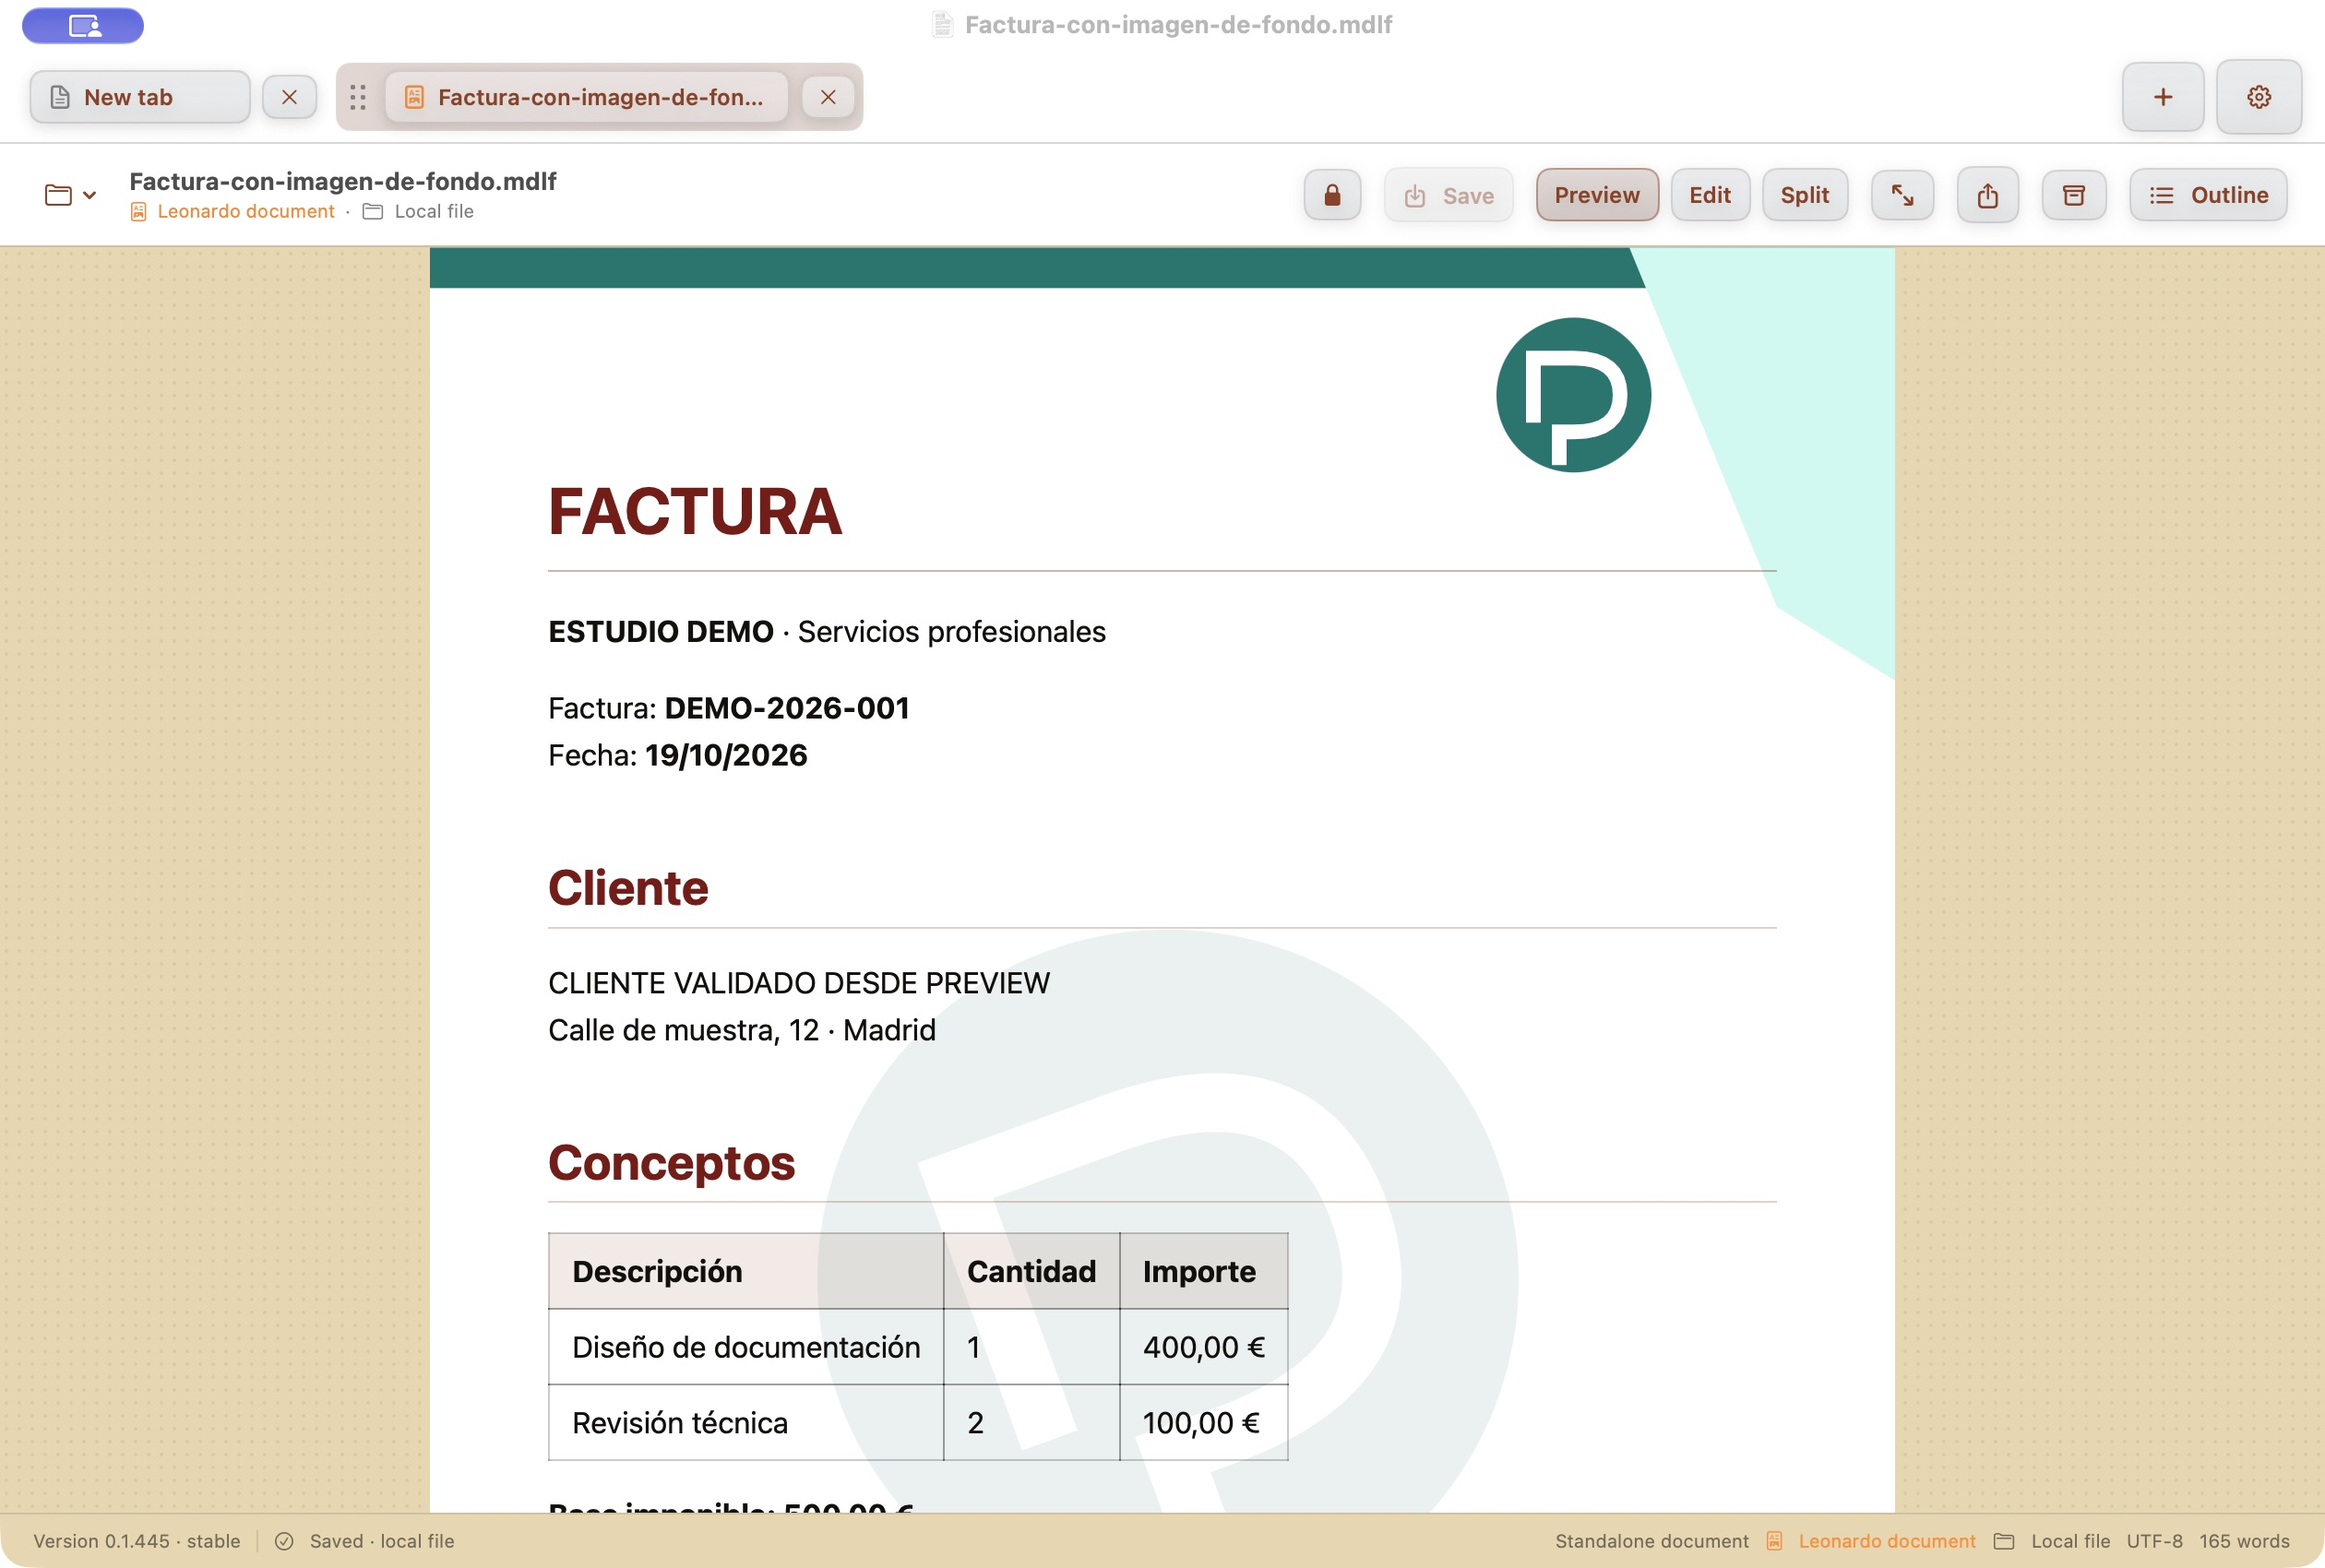
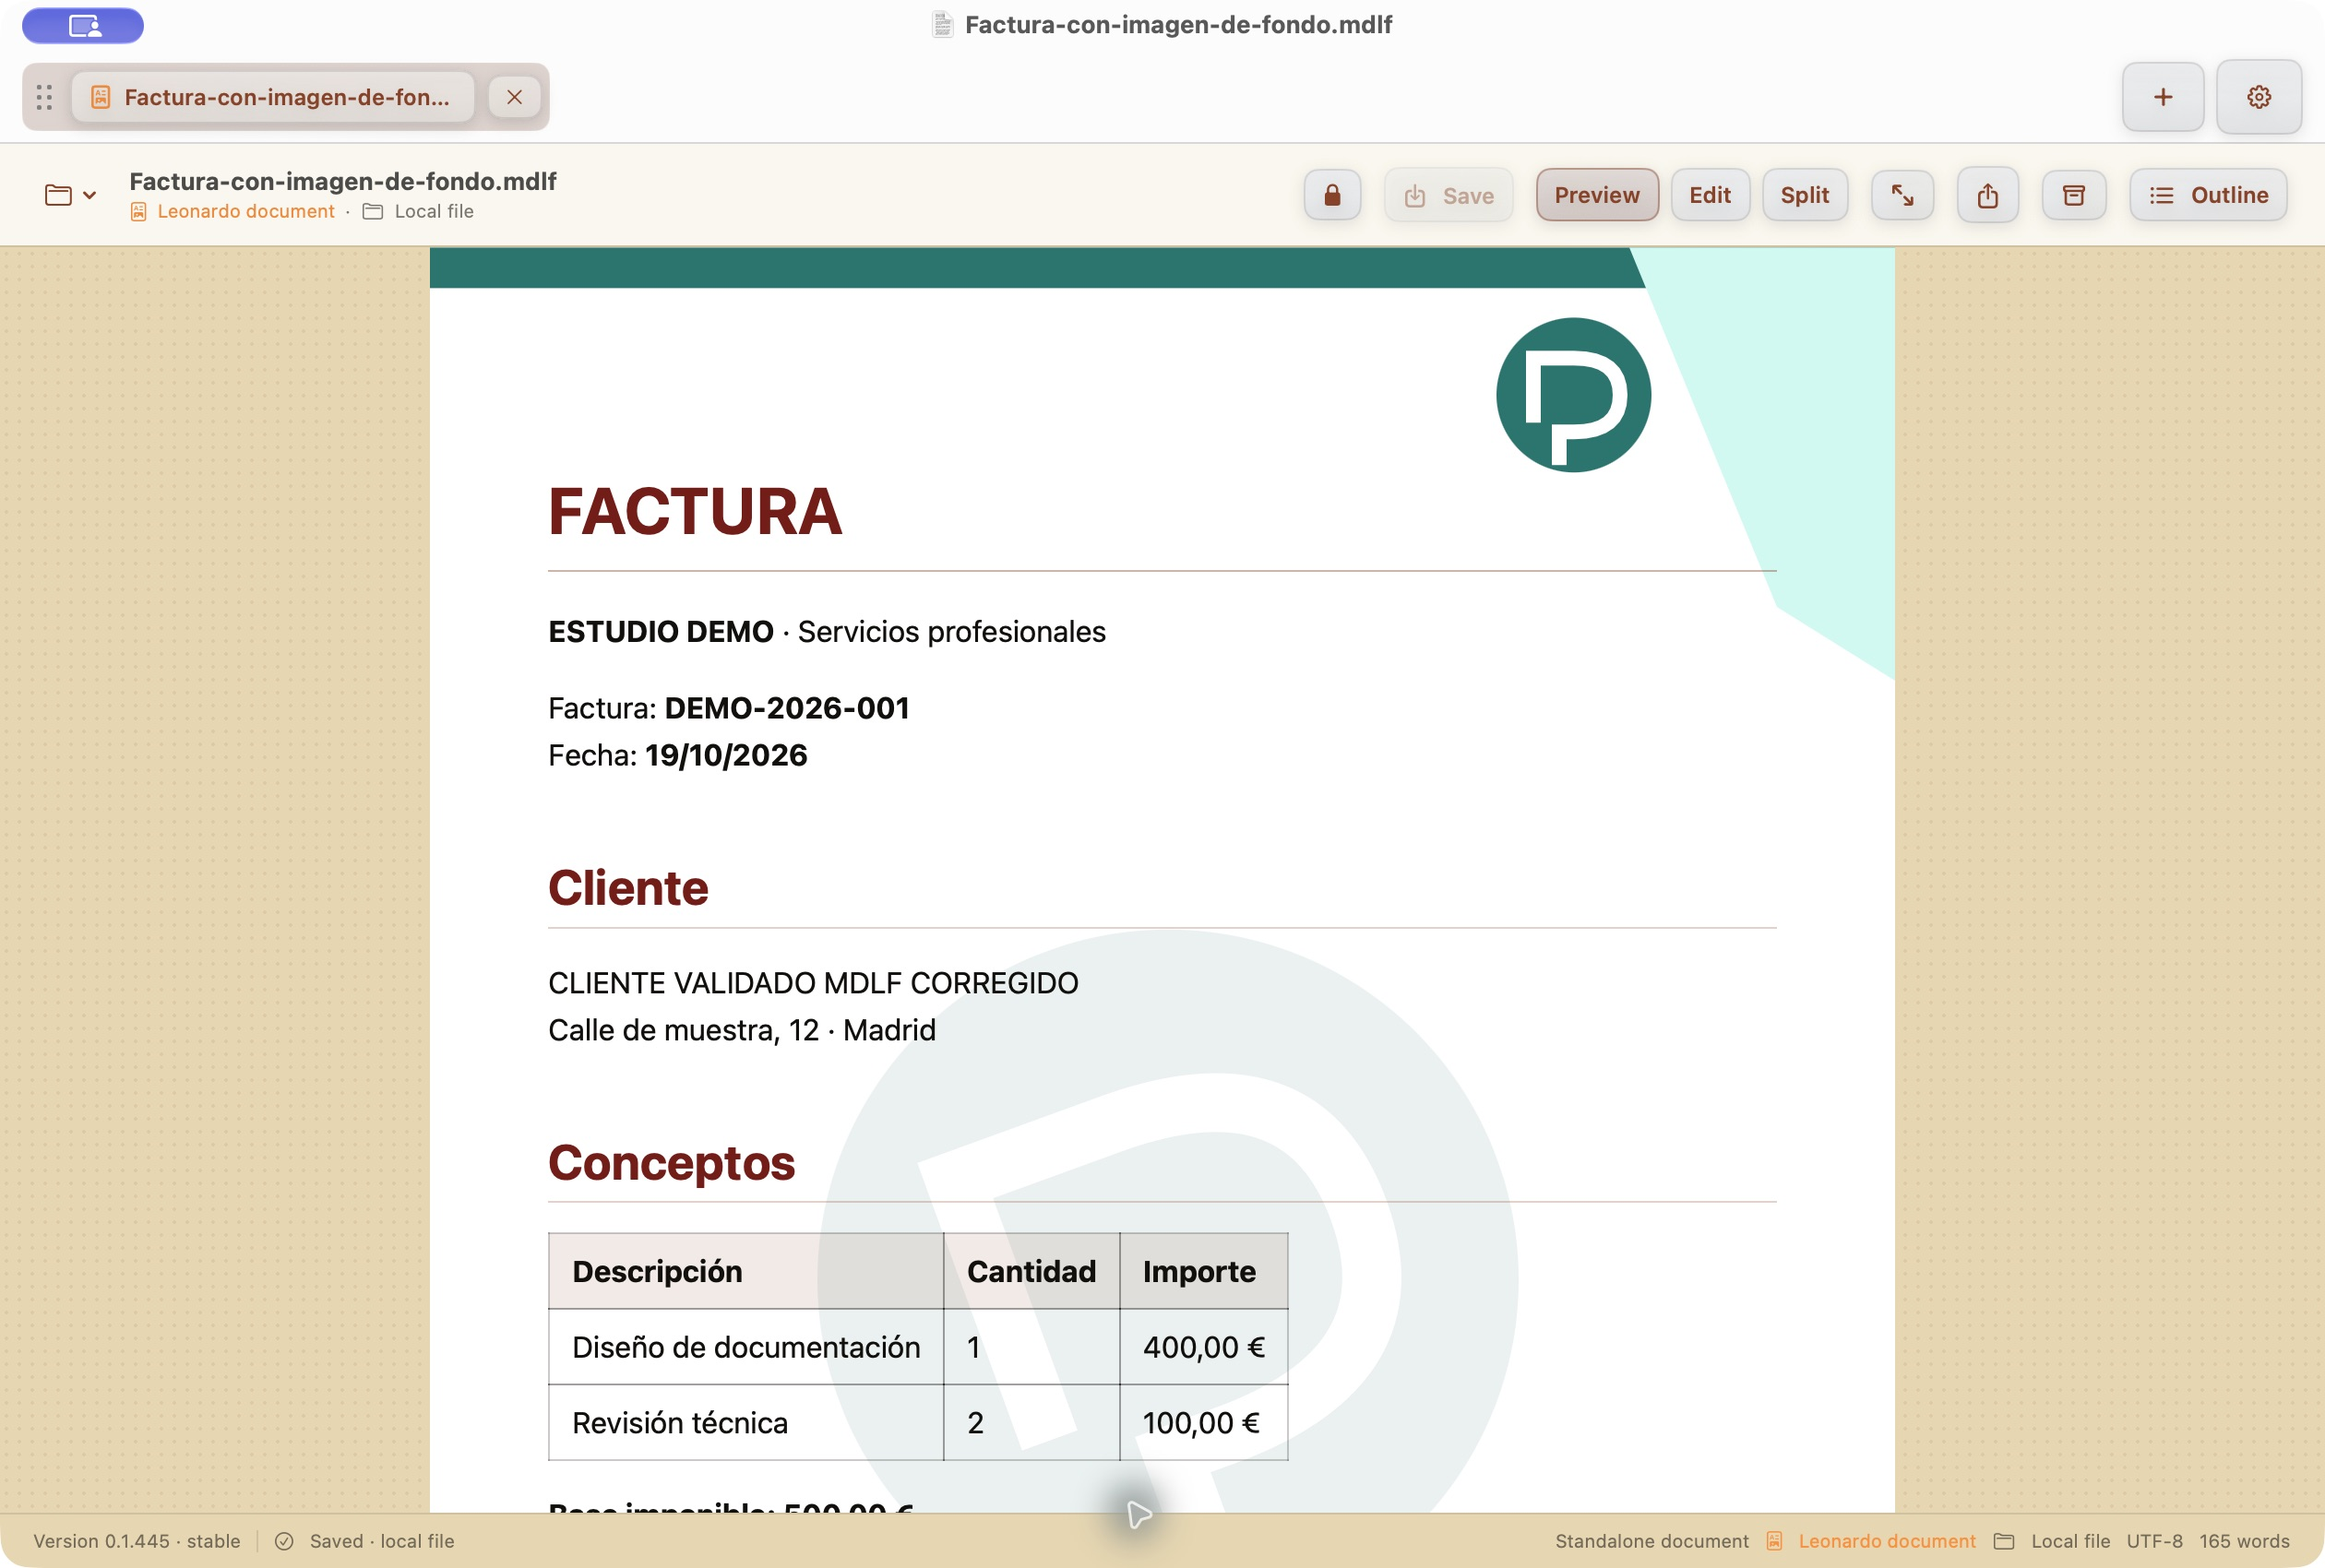
#196 Fixed: keep MDLF layout metadata out of the generic preview panel

diff --git a/Tests/LeonardoRenderTests/MarkdownRenderTests.swift b/Tests/LeonardoRenderTests/MarkdownRenderTests.swift
@@ -5,6 +5,34 @@ import Testing
 
 struct MarkdownRenderTests {
     @Test
+    func leonardoEnvelopeIsNotGenericPreviewMetadata() throws {
+        let source = "---\n{\"format\":\"mdlf\",\"formatVersion\":1,\"layout\":{\"background\":{\"image\":\"assets/logo.svg\"}}}\n---\n# Invoice\n"
+        var configuration = MarkdownPreviewConfiguration(frontMatter: .metadata)
+        configuration.allowsLeonardoFormat = true
+        let data = Data(try MarkdownHTMLShell.payloadJSON(content: source, baseURL: nil, configuration: configuration).utf8)
+        let payload = try #require(JSONSerialization.jsonObject(with: data) as? [String: Any])
+        #expect((payload["frontMatter"] as? [String: String])?.isEmpty == true)
+        #expect((payload["tags"] as? [String])?.isEmpty == true)
+        #expect(payload["markdown"] as? String == "# Invoice\n")
+        #expect(payload["source"] as? String == source)
+        let metadata = try #require(payload["leonardo"] as? [String: Any])
+        let layout = try #require(metadata["layout"] as? [String: Any])
+        let background = try #require(layout["background"] as? [String: Any])
+        #expect(background["image"] as? String == "assets/logo.svg")
+    }
+
+    @Test
+    func standardMarkdownRetainsGenericPreviewMetadata() throws {
+        let source = "---\ntitle: Invoice\ntags: [billing]\n---\n# Invoice\n"
+        let configuration = MarkdownPreviewConfiguration(frontMatter: .metadata)
+        let data = Data(try MarkdownHTMLShell.payloadJSON(content: source, baseURL: nil, configuration: configuration).utf8)
+        let payload = try #require(JSONSerialization.jsonObject(with: data) as? [String: Any])
+        #expect((payload["frontMatter"] as? [String: String])?["title"] == "Invoice")
+        #expect(payload["tags"] as? [String] == ["billing"])
+        #expect(payload["leonardo"] == nil)
+    }
+
+    @Test
     func memoryAssetsOnlyServeSelectedImagePaths() throws {
         let bytes = Data([1, 2, 3])
         let assets = MarkdownMemoryAssets(files: ["docs/images/diagrama ñ.png": bytes, "private.txt": bytes])

diff --git a/Tests/LeonardoAppTests/MDLFBackgroundPreviewTests.swift b/Tests/LeonardoAppTests/MDLFBackgroundPreviewTests.swift
@@ -21,6 +21,7 @@ final class MDLFBackgroundPreviewTests: XCTestCase {
         session.authorizePath = { _, _ in }
         defer { session.stop() }
         await session.openDocument(documentURL)
+        session.showFrontmatter = true
         session.mode = .preview
         session.isProtected = false
         XCTAssertTrue(session.renderConfiguration.allowsLeonardoFormat)
@@ -33,6 +34,7 @@ final class MDLFBackgroundPreviewTests: XCTestCase {
         defer { window.close() }
         let web = try await findWebView(in: hosting)
         try await waitFor("document.querySelector('.leonardo-document-background img')?.naturalWidth > 0", in: web)
+        try await waitFor("document.querySelector('.front-matter') === null", in: web)
         let metadata = try LeonardoFormatParser.parse(original).metadata
         _ = try await web.evaluateJavaScript("""
         (() => {

diff --git a/Sources/LeonardoRender/MarkdownHTMLShell.swift b/Sources/LeonardoRender/MarkdownHTMLShell.swift
@@ -63,8 +63,11 @@ enum MarkdownHTMLShell {
         baseURL: URL?,
         configuration: MarkdownPreviewConfiguration
     ) throws -> String {
-        let document = MarkdownDocumentParser.parse(content)
         let leonardo = configuration.allowsLeonardoFormat ? try LeonardoFormatParser.parse(content) : nil
+        // MDLF's JSON envelope configures the document; it is not generic
+        // Markdown front matter to display above the laid-out page.
+        let document = leonardo.map { MarkdownDocument(body: $0.body) }
+            ?? MarkdownDocumentParser.parse(content)
         let payload = MarkdownRenderPayload(
             markdown: leonardo?.body ?? document.body,
             leonardo: leonardo?.metadata,

diff --git a/doc/validation/mdlf-background.md b/doc/validation/mdlf-background.md
@@ -3,18 +3,30 @@
 Tracking: [issue #196](https://github.com/PinedaTec-EU/LeonardoMD/issues/196),
 [PR #197](https://github.com/PinedaTec-EU/LeonardoMD/pull/197).
 
-## Reproduction and disposition
+## Root cause and correction
 
-The installed `/Applications/LeonardoMD.app` reported **0.1.441 beta** and
-reproduced the absent-background/generic-metadata result, including after a
-normal quit and fresh launch. Source inspection alone did not establish why
-that installed binary behaved differently.
+With **Show metadata** enabled, `MarkdownHTMLShell.payloadJSON` parsed the
+complete MDLF source through the generic Markdown front-matter parser. That
+created a tall panel containing technical JSON keys and displaced the invoice
+and its image background below the first viewport. The initial report that the
+image did not load was incomplete: inspection of public beta 0.1.445 confirmed
+the image below the metadata panel.
 
-A clean release compilation of current main-based source loaded the same MDLF
-background correctly. No runtime renderer patch was needed to obtain this
-result. This change adds the missing reproducible fixture, native regression
-coverage and user instructions; it does not claim to repair or replace the
-installed 0.1.441 artifact or identify its binary/source discrepancy.
+The installed **0.1.441 beta** executable matches the public 0.1.441 archive
[1 lines of base64/hex data omitted]
+A first QA build did not show the problem because its fresh preference domain
+had Show metadata off. This was a masked condition, not evidence that a clean
+build alone repaired the defect.
+
+The correction parses opted-in MDLF once and builds the generic preview view
+of its body without routing its JSON envelope through Markdown metadata parsing.
+The full original source and typed Leonardo layout still reach the renderer
+and editing bridge. Standard Markdown keeps its existing front matter and tags.
+The regression explicitly enables **Show metadata** and failed before this fix.
+
+Migration of original Markdown/YAML content belongs to
+[issue #191](https://github.com/PinedaTec-EU/LeonardoMD/issues/191); this change
+does not implement that migration or a replacement metadata inspector.
 
 ## Packaged native acceptance — 2026-10-19
 
@@ -23,17 +35,19 @@ installed 0.1.441 artifact or identify its binary/source discrepancy.
   resources and Sparkle framework; no XCTest framework in the GUI executable.
 - QA bundle numeric metadata: **0.1.445**. Its channel label was **stable** from
   local packaging defaults; this is a local QA candidate, not a published
-  stable release. Source runtime baseline: `efd35b9`.
-- New process PID: **21357**, from a disposable `LeonardoMDQA.app` bundle.
+  stable release. Source base: `efd35b9`, with the PR #197 metadata correction applied.
+- Fresh process identity is recorded in the capture provenance for the final
+  disposable `LeonardoMDQA.app` bundle.
   The owner authorized normal termination of the installed instance. Fresh
   startup produced a real window; acceptance was not forwarded to that instance.
 - Input: `/tmp/Leonardo-factura-imagen-real/Factura-con-imagen-de-fondo.mdlf`
   and its real `assets/membrete.svg`. The committed equivalent lives under
   `doc/format/examples/invoice/`.
-- Preview displayed the SVG letterhead, logo and watermark beneath the Markdown
-  invoice. The image contains no SVG text elements.
+- With **Show metadata enabled**, Preview displayed the SVG letterhead, logo
+  and watermark beneath the Markdown invoice without a technical JSON panel.
+  The image contains no SVG text elements.
 - Unlocked the toolbar padlock, selected the customer in Preview, replaced it
-  with **CLIENTE VALIDADO DESDE PREVIEW**, and pressed **⌘S**.
+  with **CLIENTE VALIDADO MDLF CORREGIDO**, and pressed **⌘S**.
 - Closed the document tab, reopened the same MDLF through the app, and observed
   both the background and the changed customer. Read back the saved MDLF to
   verify the native image reference, changed body and absence of HTML markup.
@@ -48,7 +62,8 @@ The source/head and bundle digest are recorded in `mdlf-background/provenance.js
 
 `Tests/LeonardoAppTests/MDLFBackgroundPreviewTests.swift` hosts `WorkspaceView`
 and its real WKWebView with a temporary copy of the committed MDLF invoice.
-It verifies image decoding, the Preview-to-session editing bridge, persistence,
+With Show metadata enabled, it verifies absence of the generic JSON panel,
+image decoding, the Preview-to-session editing bridge, persistence,
 exact preservation of all source bytes outside the changed customer, metadata
 preservation, reopen rendering, and PDF production. With
 `LEONARDO_VISUAL_EVIDENCE` set, it captures the reopened preview, PDF and head

diff --git a/.wiki/leonardo-format.md b/.wiki/leonardo-format.md
@@ -34,4 +34,4 @@ Format preferences share `LeonardoFormatPreferences` across sessions. Computed U
 
 Standalone MDLF and MDLZ with inner MDLF follow the normal resolved Markdown mode (Preview by default). Standalone and packaged MDLR responses retain Fill, including explicit extraction. Explicit source-line navigation still selects Edit. Regression: [#189](https://github.com/PinedaTec-EU/LeonardoMD/issues/189).
 
-Native background regression [#196](https://github.com/PinedaTec-EU/LeonardoMD/issues/196): `doc/format/examples/invoice/invoice.mdlf` uses a separate SVG and ordinary Markdown, with no HTML. `MDLFBackgroundPreviewTests` hosts the real `WorkspaceView`, edits a prose node through the Preview bridge, saves, reopens, checks unchanged metadata/source bytes, loads the image again and exports PDF. Installed 0.1.441 failed the native demonstration; a clean packaged main-based QA build (numeric metadata 0.1.445) passed. Do not infer an installed binary's capabilities from repository source, or substitute HTML-in-Markdown as MDLF evidence. See `doc/validation/mdlf-background.md`.
+Native background regression [#196](https://github.com/PinedaTec-EU/LeonardoMD/issues/196): with Show metadata enabled, generic Markdown parsing exposed the MDLF JSON envelope and pushed the invoice below the initial viewport; a fresh QA preference domain initially masked this. `MarkdownHTMLShell` must parse opted-in MDLF once and keep its envelope out of generic Markdown front matter. Preserve the full source for editing and typed layout for rendering; ordinary Markdown metadata remains unchanged. `doc/format/examples/invoice/invoice.mdlf` uses a separate SVG and ordinary Markdown, with no HTML. `MDLFBackgroundPreviewTests` hosts `WorkspaceView` with Show metadata explicitly on, edits a prose node through the Preview bridge, saves, reopens, checks unchanged metadata/source bytes, loads the image again and exports PDF. Do not substitute HTML-in-Markdown or a preference-off QA build as MDLF acceptance evidence. See `doc/validation/mdlf-background.md`. Migration remains in [#191](https://github.com/PinedaTec-EU/LeonardoMD/issues/191).
